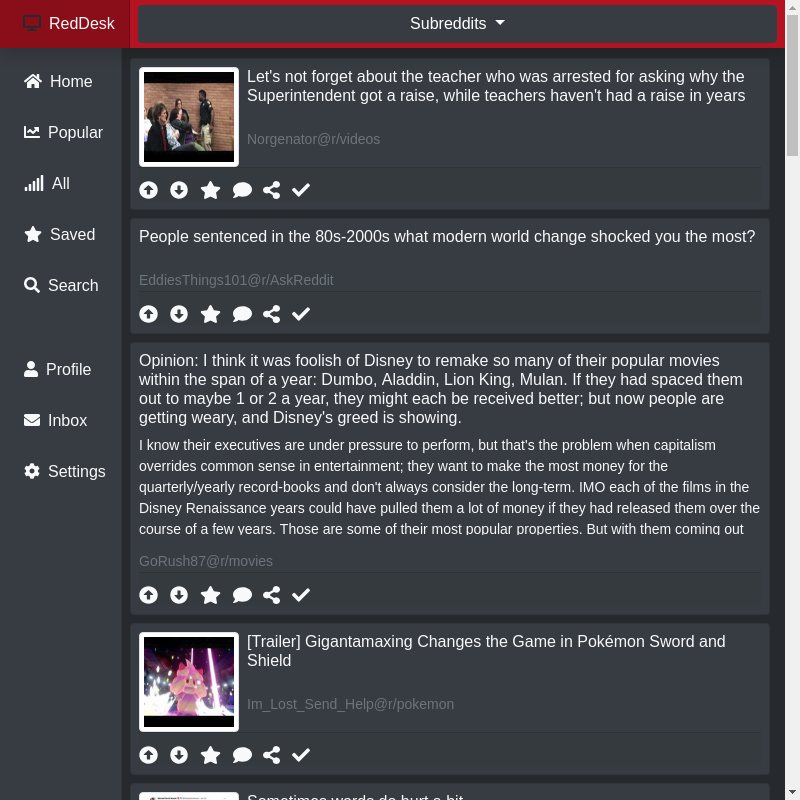
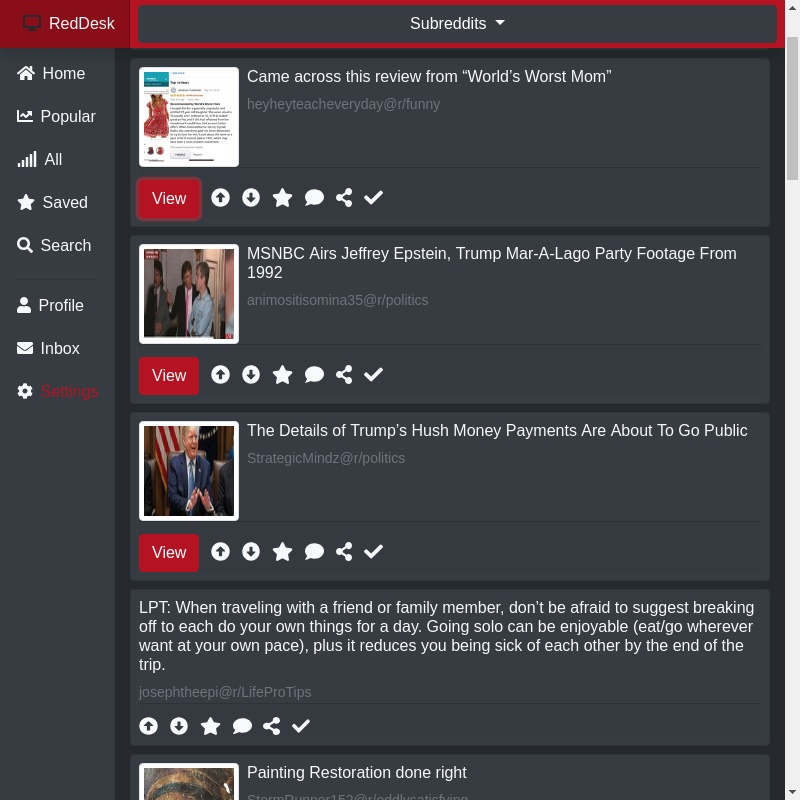
Release 0.0.4

diff --git a/index.html b/index.html
@@ -94,22 +94,6 @@
                         </ul>
                     </div>
                 </div>
-
-                <!-- <div id="expanded_post" class="vh-100 text-light position-fixed pl-4 pr-4 scale-up-center" hidden>
-                    <h4 class="header-text">{{Full_Post.title}}</h4>
-                    <p class="header-selftext">{{Full_Post.selftext}}</p>
-
-                    <img ng-src="{{Full_Post.url}}" class="img-fluid">
-                    <div class="card-footer pb-0 pl-0">
-                        <i class="upvote fas fa-arrow-alt-circle-up fa-lg mr-2"></i>
-                        <i class="downvote fas fa-arrow-alt-circle-down fa-lg mr-2"></i>
-                        <i class="save fas fa-star fa-lg mr-2"></i>
-                        <i class="fas fa-comment fa-lg mr-2"></i>
-                        <i class="fas fa-share-alt fa-lg mr-2"></i>
-                        <i class="fas fa-check fa-lg mr-2"></i>
-                        <button class="btn btn-primary float-right" ng-click="closePost()">Close</button>
-                    </div>
-                </div> -->
                 <main id="main" role="main" class="col" ng-init="onBottom()" hidden>
                     <div id="post: {{post.kind}}_{{post.data.id}}" ng-click="openPost(post.data.permalink)" class="card text-light bg-secondary mb-2 scale-up-hor-left p-2 w-100" ng-repeat="post in posts">
                         <div class="card-body media p-0">
@@ -122,16 +106,16 @@
                             </div>
                         </div>
                         <div class="card-footer pb-0 pl-0">
+                            <!--Dynamic Dropdown Button Toggle-->
+
+                            <button class="btn btn-primary mr-2" ng-click="openPost(post.data.permalink, post.kind + '_' + post.data.id)" type="button" data-toggle="collapse" data-target="#{{post.kind}}_{{post.data.id}}" aria-expanded="false" aria-controls="{{post.kind}}_{{post.data.id}}" ng-hide="post.data.selftext_html == null && post.data.post_hint == null">View</button>
+
                             <i class="upvote fas fa-arrow-alt-circle-up fa-lg mr-2"></i>
                             <i class="downvote fas fa-arrow-alt-circle-down fa-lg mr-2"></i>
                             <i class="save fas fa-star fa-lg mr-2"></i>
                             <i class="fas fa-comment fa-lg mr-2"></i>
                             <i class="fas fa-share-alt fa-lg mr-2"></i>
-                            <i class="fas fa-check fa-lg mr-2"></i>
-
-                            <!--Dynamic Dropdown Button Toggle-->
-                            <button class="btn btn-primary" ng-click="openPost(post.data.permalink, post.kind + '_' + post.data.id)" type="button" data-toggle="collapse" data-target="#{{post.kind}}_{{post.data.id}}" aria-expanded="false" aria-controls="{{post.kind}}_{{post.data.id}}" ng-hide="post.data.selftext_html == null && post.data.post_hint == null">View</button>
-
+                            <i class="fas fa-check fa-lg"></i>
                         </div>
 
                         <!--Dynamic Dropdown-->
@@ -156,24 +140,6 @@
                             </div>
                         </div>
                     </div>
-                    
-                    <!-- <div class="card mb-2" ng-repeat="post in posts">
-                        <div class="card-header">
-                            <h6 class="card-title m-0 text-primary">{{post.data.title}}</h6>
-                            <p class="card-text m-0">{{post.data.selftext}}</p>
-                        </div>
-                        <div class="card-body">
-                            <img src="{{post.data.url}}" class="card-img-top img-thumbnail" alt="{{post.data.imagename}}">
-                        </div>
-                        <div class="card-footer">
-                            <i class="upvote fas fa-arrow-alt-circle-up fa-2x mr-2"></i>
-                            <i class="downvote fas fa-arrow-alt-circle-down fa-2x mr-2"></i>
-                            <i class="save fas fa-star fa-2x mr-2"></i>
-                            <i class="fas fa-comment fa-2x mr-2"></i>
-                            <i class="fas fa-share-alt fa-2x mr-2"></i>
-                            <i class="fas fa-check fa-2x mr-2"></i>
-                        </div>
-                    </div> -->
                 </main>
             </div>
         </div>

diff --git a/css/dashboard.css b/css/dashboard.css
@@ -87,14 +87,6 @@ body {
   margin-left: 115px;
 }
 
-#expanded_post
-{
-  z-index: 100;
-  padding-top: 58px;
-  margin-left: 115px;
-  background-color: rgb(0,0,0, .75);
-  overflow-y: scroll;
-}
 
 /* @media (min-width: 768px) {
   [role="main"] {
@@ -179,11 +171,6 @@ body {
   {
     padding-left: 80px !important;
     margin-left: 0px;
-  }
-
-  #expanded_post
-  {
-    margin-left: 60px;
   }
 }
 

diff --git a/config.js b/config.js
@@ -1,5 +1,5 @@
 module.exports = 
 {
-    'devMode': true, // Turns on or off the development tools
+    'devMode': false, // Turns on or off the development tools
     'autohidemenu': true
 }

diff --git a/README.md b/README.md
@@ -8,7 +8,11 @@ RedDesk is a unofficial Reddit app built for the desktop. Built on the electron 
 <img src="readme/screenshot2.png">
 
 ## Dynamic Sizing
-<img src="readme/screenshot3.png">
+
+```diff
+In Progress
+```
+<!-- <img src="readme/screenshot3.png"> -->
 
 
 
@@ -61,8 +65,10 @@ This will install electron globally, as well as in the app.
 # Updates
 ```diff
 + Dropdown Menu for Subreddits
-+ Full Screen Posts on Click
-+ New Animations
+- (Removed) Full Screen Posts on Click
++ (Added) Drop down posts
++ Better post handling
+- Responsive Design is currently not functional
 ```
 
 # ToDo:
